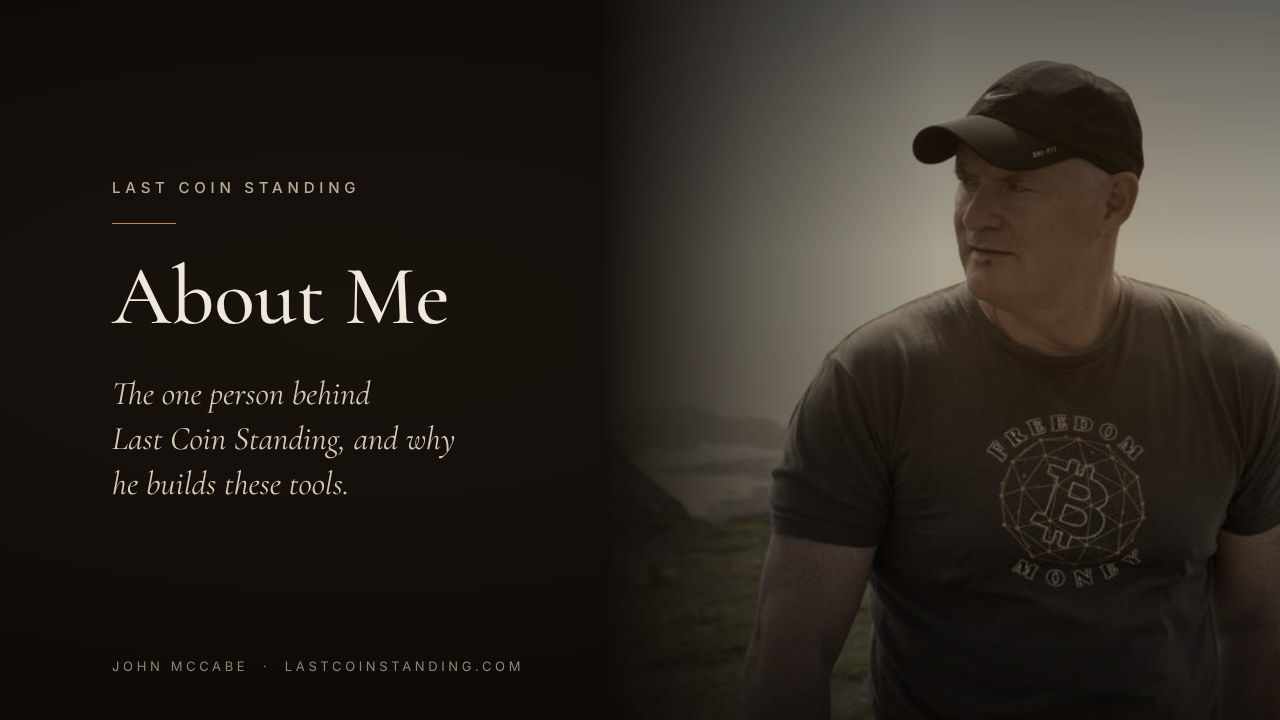
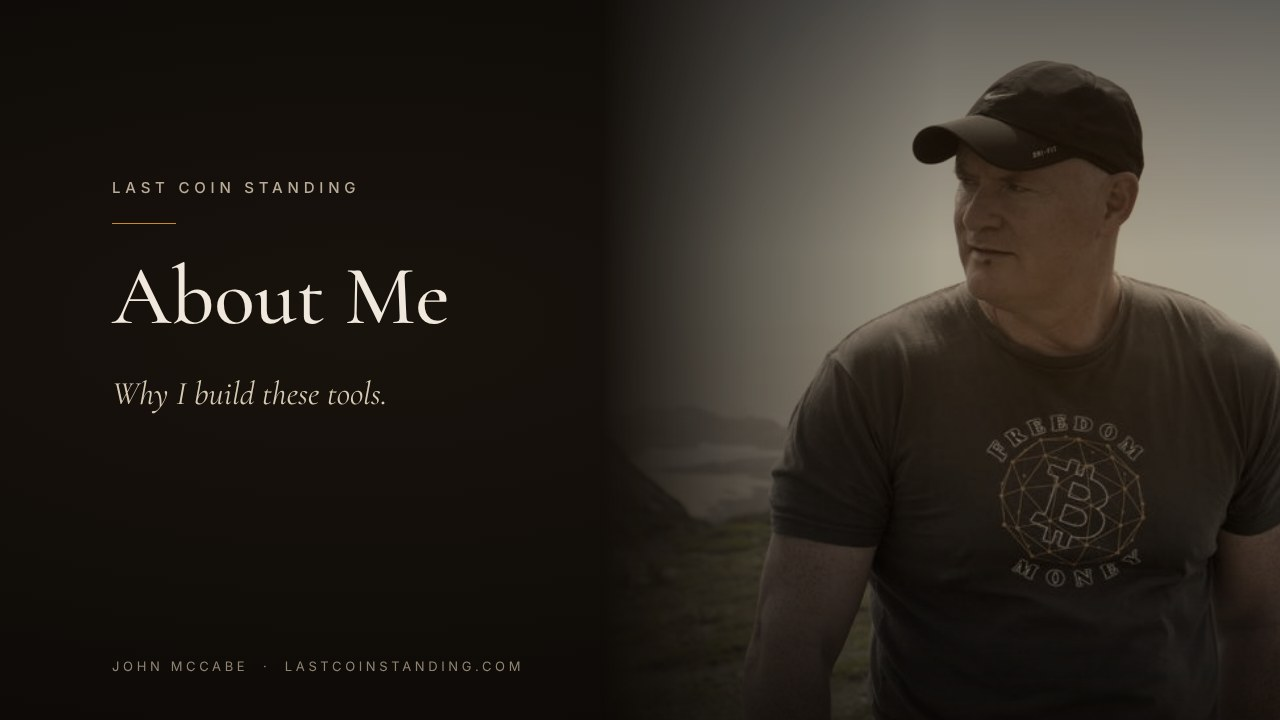
about-me: plainer one-person line; card text per JM
Claude-Session: https://claude.ai/code/session_01GmRaXqnFtr7tiN4ZN3wKSf

Changed region(s): [[0.0938, 0.5194, 0.3438, 0.7028]]

diff --git a/TECH_DEBT.md b/TECH_DEBT.md
@@ -341,7 +341,7 @@ Items deferred to later phases. Trigger criteria already documented; no schedule
 
 Move items here when shipped, with commit SHA. Keep the last 5–10 for reference; archive older ones to git history when this section gets long.
 
-- [x] **About Me and Work With Me, 2026-11-07 (branch `about-me`).** JM: make the one-person nature plain, give Work With Me a card and a more prominent place. Nav and footer label "About" → **"About Me"** (URL unchanged; re-measured at 1100px, still fits). About: H1 "About Me"; a lead line first ("a one-person project … I decide what gets built, do the research, write the words and check the numbers", deliberately not "I write every line of code"); Who I Am moved above the mission; a Work With Me card under the bio and a first "Work With Me →" button in Connect; meta, OG and JSON-LD retitled. Work With Me: a person block (photo, one-person line, background), the collaboration offer names advisors and asset managers and the standard the tools are held to, the show offer names past appearances. Two new brand-forward cards, `og-work-with-me.jpg` and `og-about-me.jpg` (photo right, warm-graded; replaces the Synthesis placeholder and `og-about.jpg`, which stays on disk). Records #245's merge `1a88ca2` and #246's `6b73c91`.
+- [x] **About Me and Work With Me, 2026-11-07 (branch `about-me`).** JM: make the one-person nature plain, give Work With Me a card and a more prominent place. Nav and footer label "About" → **"About Me"** (URL unchanged; re-measured at 1100px, still fits). About: H1 "About Me"; a lead line first ("a one-person project: I choose what to build, do the research, write the words and check the numbers"; JM asked for plain, not boastful, so no "no team or sponsor" or "every page answers to me"; deliberately not "I write every line of code"); Who I Am moved above the mission; a Work With Me card under the bio and a first "Work With Me →" button in Connect; meta, OG and JSON-LD retitled. Work With Me: a person block (photo, one-person line, background), the collaboration offer names advisors and asset managers and the standard the tools are held to, the show offer names past appearances. Two new brand-forward cards, `og-work-with-me.jpg` ("One person builds this site. Open to conversations, collaborations and podcasts.") and `og-about-me.jpg` ("Why I build these tools.", first person; photo right, warm-graded; replaces the Synthesis placeholder and `og-about.jpg`, which stays on disk). Records #245's merge `1a88ca2` and #246's `6b73c91`.
 
 - [x] **Lender re-read, November 2026 (branch `lenders-2026-11`).** All twenty cards against each lender's own pages (§7.6), starting from issue #203's weekly lists. `scripts/lender-watch.mjs` run locally to read the 84 cited pages; seven it couldn't read were read by hand: Ledn's state list and Coinbase's fee and collateral articles in the desktop app's built-in browser (Ledn's US file fetched from the page: no change), Kraken's two US posts through WebFetch, the CoinDesk article left (press). Live markets read directly: Debifi's and Hodl Hodl's offer books (rendered), Morpho's API, Aave's reserve page and DefiLlama. **Twelve cards changed**: Strike (volatility-proof loan now in WA; credit line 11.25%; monthly-interest minimums), Arch (footer no longer excludes HI; the article's count is 43 states + DC + PR), APX (1–5 year terms, early repayment three months' interest on the amount repaid; credit line gone), Firefish (default interest 15% plus ~5% premium), Aave (WBTC/cbBTC max LTV 81%, liquidation 85%, was 73/78; rates 4.6–5.6%), Morpho (5.7%), Debifi (8.5–14.25%; second-year opening fee; $500 card-loan minimum), Hodl Hodl (9.5–12.5%), Coinbase (1% fixed-rate fee; loan protection), Lava (Liquidation Protection), Milo (guide's 6.5–8.5% and $200K–$25M beside the product page), Cadena (outage banner gone). Every card's `asOf` → 2026-11-05; `lenderLog.json` has the check entry, three `lender` entries and ten `page`/`updated` entries with `changes`; next check 2026-12-01. Close #203 after merge. #243's merge `a55684e` recorded on its entry below.
 
